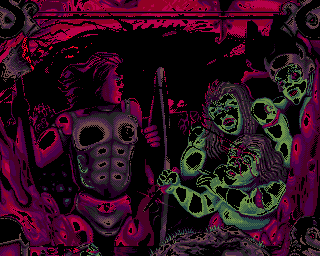
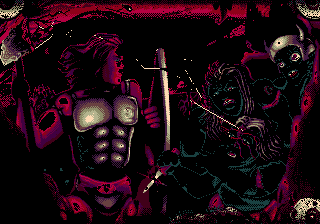
- Shows MD'fied Moonsoon picture.  - Plays music, then switch to vectorball fx.

diff --git a/pirate_intro/src/barb_picture.c b/pirate_intro/src/barb_picture.c
@@ -9,6 +9,8 @@ extern u8 framerate;
 
 void displayBarbPictureFX(void)
 {
+	u16 fx_phase;
+
 	SYS_disableInts();
 
 	VDP_clearPlan(PLAN_A, 0);
@@ -17,27 +19,31 @@ void displayBarbPictureFX(void)
 	/* Set a larger tileplan to be able to scroll */
 	VDP_setPlanSize(64, 32);
 
-	SPR_init(1, 1, 1);
+	// SPR_init(1, 1, 1);
 
 	/* Draw the foreground */
-	VDP_drawImageEx(PLAN_B, &barbarian_pic_A, TILE_ATTR_FULL(PAL0, FALSE, FALSE, FALSE, vramIndex), 0, 0, TRUE, FALSE);
+	VDP_drawImageEx(PLAN_A, &barbarian_pic_A, TILE_ATTR_FULL(PAL0, FALSE, FALSE, FALSE, vramIndex), 0, 0, TRUE, TRUE);
 	vramIndex += barbarian_pic_A.tileset->numTile;
-	VDP_drawImageEx(PLAN_B, &barbarian_pic_B, TILE_ATTR_FULL(PAL1, FALSE, FALSE, FALSE, vramIndex), 0, 0, TRUE, FALSE);
+	VDP_drawImageEx(PLAN_B, &barbarian_pic_B, TILE_ATTR_FULL(PAL1, FALSE, FALSE, FALSE, vramIndex), 0, 0, TRUE, TRUE);
 	vramIndex += barbarian_pic_B.tileset->numTile;
 
 	SYS_enableInts();
 
-	VDP_fadePalTo(PAL1, barbarian_pic_B_dark.palette->data, 32, TRUE);
-	RSE_pause(32);
-	VDP_fadePalTo(PAL1, barbarian_pic_B.palette->data, 32, TRUE);
-	RSE_pause(32);
-	VDP_fadePalTo(PAL0, barbarian_pic_A.palette->data, 32, TRUE);
-	RSE_pause(32);
+	// VDP_fadePalTo(PAL1, barbarian_pic_B_dark.palette->data, 32, TRUE);
+	// RSE_pause(64);
+	// VDP_fadePalTo(PAL1, barbarian_pic_B.palette->data, 32, TRUE);
+	// RSE_pause(64);
+	// VDP_fadePalTo(PAL0, barbarian_pic_A.palette->data, 32, TRUE);
+	// RSE_pause(64);
 
-	while(1) // (vball_phase < VBALL_PHASE_QUIT)
+	fx_phase = 0;
+	while(fx_phase < 60 * 8) // (vball_phase < VBALL_PHASE_QUIT)
 	{
 		VDP_waitVSync();
+		fx_phase++;
 		// BMP_showFPS(0);
 	}
 
+	VDP_clearPlan(PLAN_A, 0);
+	VDP_clearPlan(PLAN_B, 0);
 }

diff --git a/pirate_intro/src/main.c b/pirate_intro/src/main.c
@@ -30,7 +30,7 @@ int main()
 	{
 		vramIndex = TILE_USERINDEX;
 
-		// play_music();
+		play_music();
 
 		RSE_turn_screen_to_black();
 		/*	
@@ -41,11 +41,11 @@ int main()
 
 		displayBarbPictureFX();
 
-		RSE_pause(RSE_FRAMES(20));
+		// RSE_pause(RSE_FRAMES(20));
 
 		fastVectorBallFX();
 
-		// stop_music();
+		stop_music();
 
 		RSE_pause(RSE_FRAMES(20));
 

diff --git a/pirate_intro/src/vector_balls.c b/pirate_intro/src/vector_balls.c
@@ -163,8 +163,8 @@ void fastVectorBallFX()
 
 	while(vball_phase < VBALL_PHASE_QUIT)
 	{
-		// VDP_waitVSync();
-		BMP_showFPS(0);
+		VDP_waitVSync();
+		// BMP_showFPS(0);
 		drawVectorBalls(angle, angle << 1);
 		// VDP_setHorizontalScroll(PLAN_B, ((xc) >> 6) - 16);
 		// VDP_setHorizontalScroll(PLAN_A, ((-xc) >> 4) - 32);		
